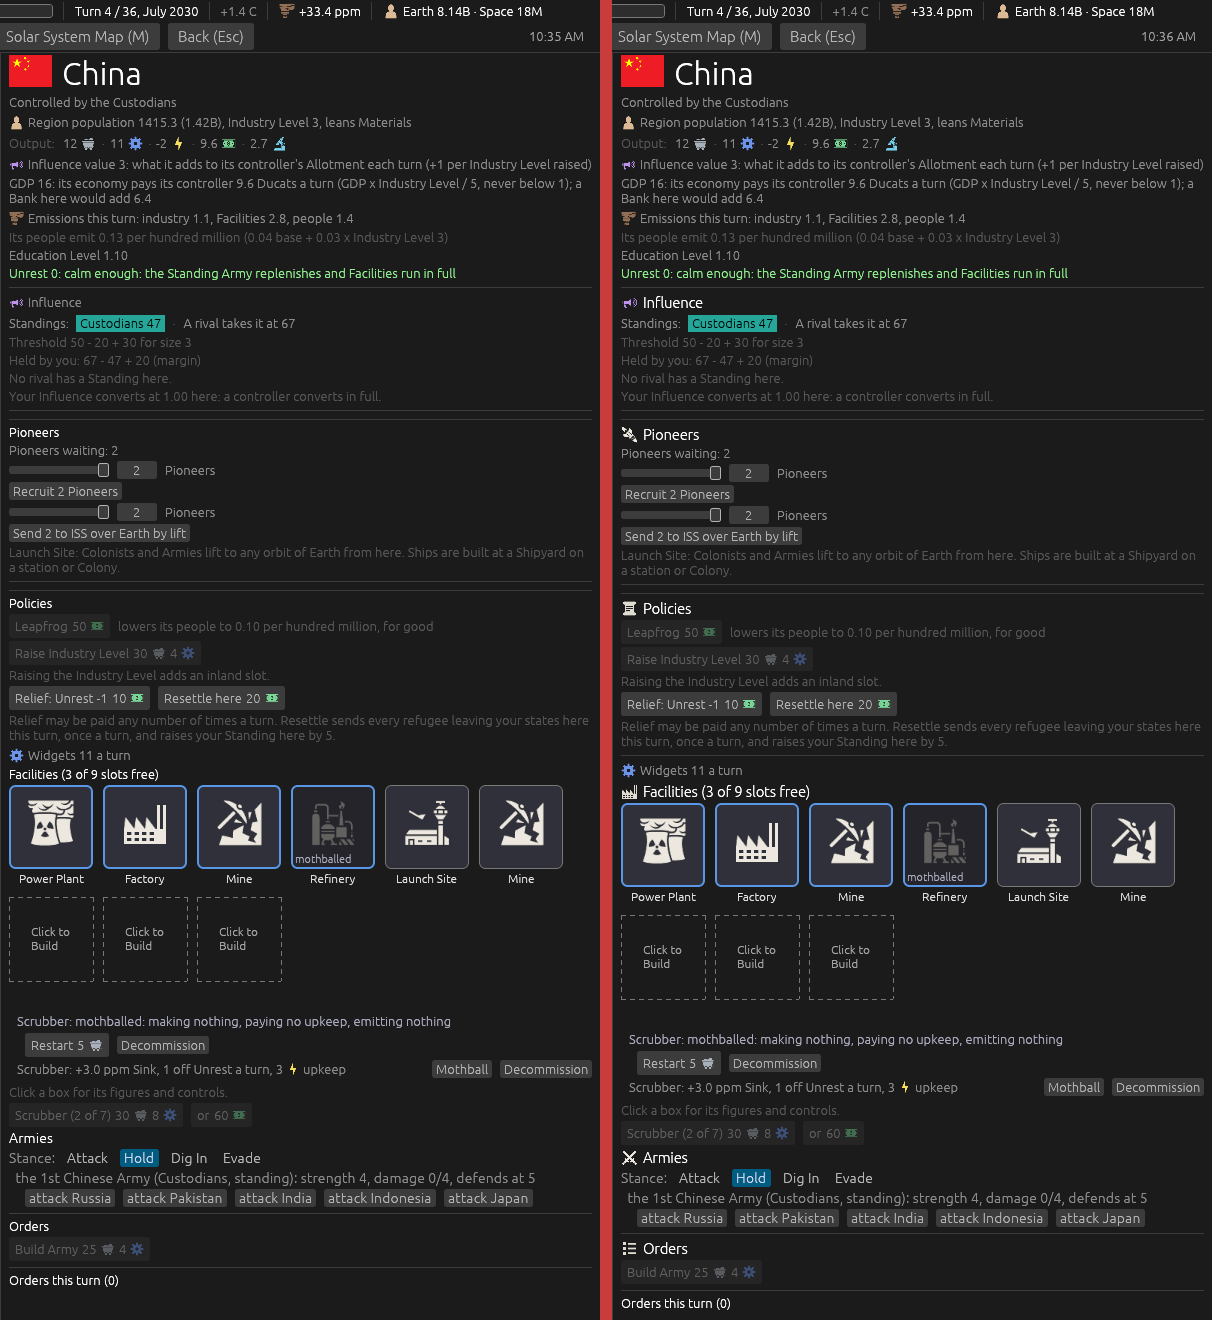
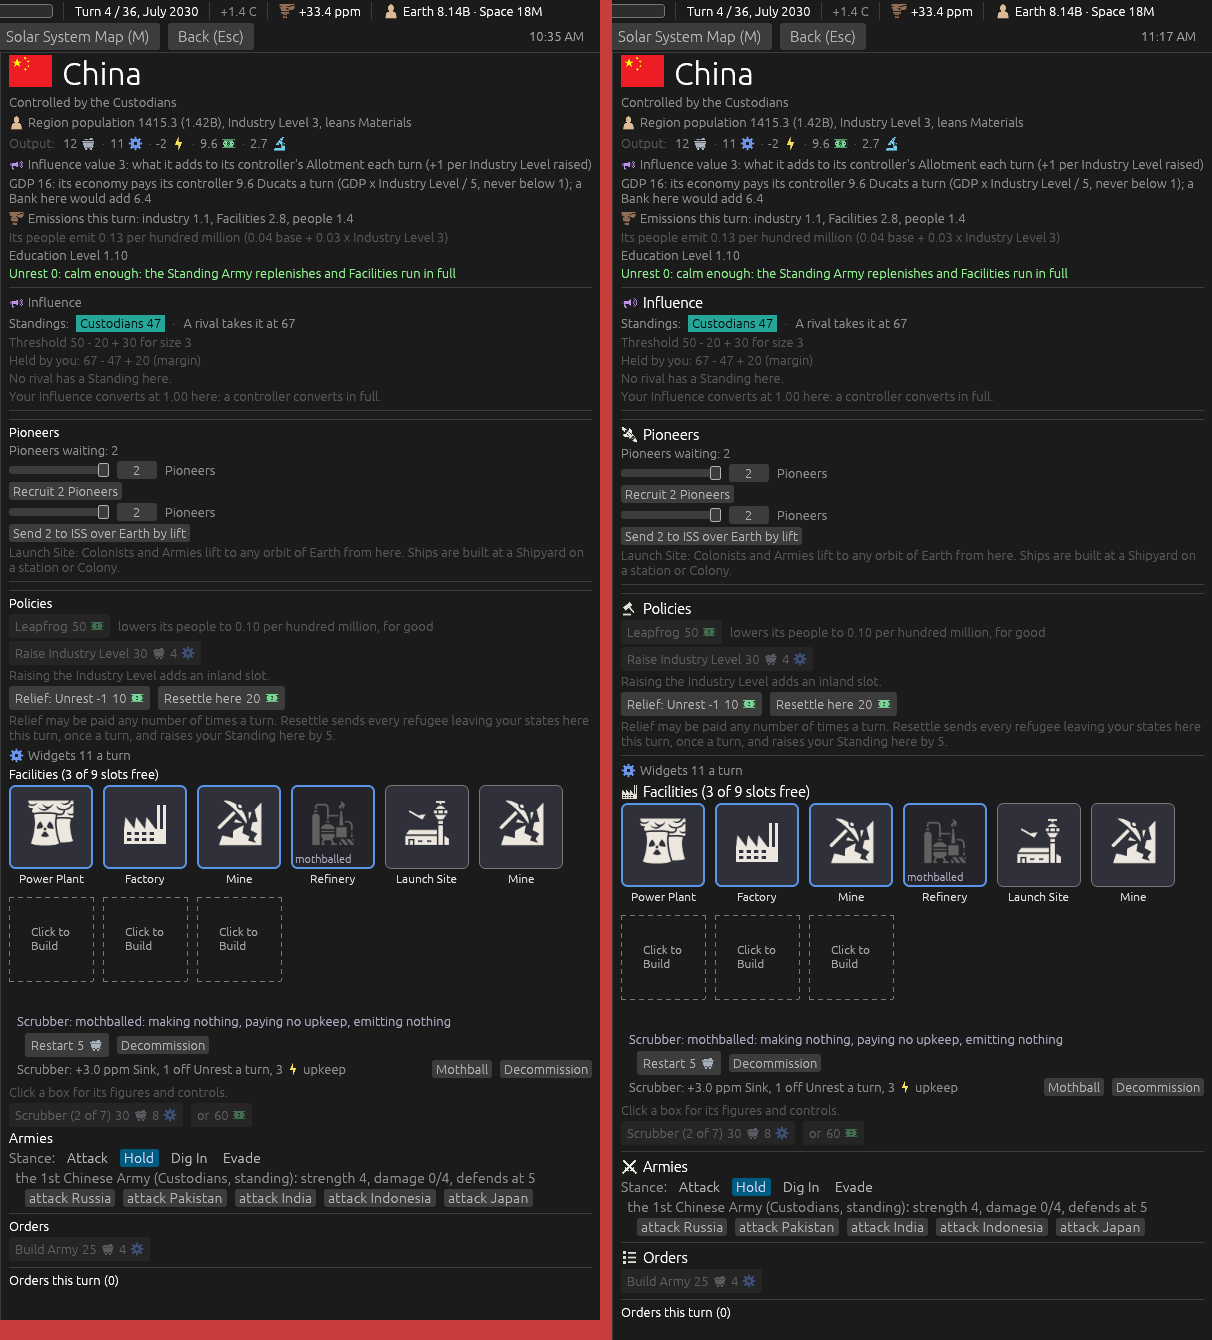
The Policies glyph redrawn as a gavel, and a rule above the Armies block (#474)
At the designer's word after the first pictures: the scroll read badly at
heading size. Four candidates are filed in the dev diary.

diff --git a/src/ui.rs b/src/ui.rs
@@ -7426,6 +7426,8 @@ This turn {:+.2}%: {:+.1} million.", c.population_growth * 100.0, c.population_l
     // is gone. The whole block is a tenth larger, at `ARMY_LIST_SCALE`.
     // Ticket #430 (version 0.09.5): the Armies the player does not see are counted, not listed.
     let (armies, unseen): (Vec<&Army>, Vec<&Army>) = game.armies.iter().filter(|a| a.at == ArmyAt::Place(Place::State(sid))).partition(|a| !hidden_army(game, a));
+    // Ticket #474 (version 0.09.8): a rule above the Armies, at the designer's word.
+    ui.separator();
     ui.scope(|ui| {
         for font in ui.style_mut().text_styles.values_mut() {
             font.size *= ARMY_LIST_SCALE;
@@ -8035,6 +8037,8 @@ fn colony_panel(ui: &mut Ui, session: &Session, game: &Game, view: &mut ViewStat
     // Ticket #430 (version 0.09.5): the Armies the player does not see are counted, not listed.
     let (armies, unseen): (Vec<&Army>, Vec<&Army>) = game.armies.iter().filter(|a| a.at == ArmyAt::Place(Place::Colony(cid))).partition(|a| !hidden_army(game, a));
     if !armies.is_empty() || !unseen.is_empty() {
+        // Ticket #474 (version 0.09.8): a rule above the Armies, as on the Region card.
+        ui.separator();
         ui.scope(|ui| {
             for font in ui.style_mut().text_styles.values_mut() {
                 font.size *= ARMY_LIST_SCALE;

diff --git a/src/icons.rs b/src/icons.rs
@@ -229,7 +229,7 @@ pub fn faction_symbol(kind: dying_earth_engine::FactionKind) -> &'static str {
 /// the Colony Ship already wears Lorc's upright Rocket, and a second upright rocket at sixteen
 /// pixels is the same silhouette twice. The DIAGONAL is what tells the two apart across a roster.
 /// Ticket #474 (version 0.09.8): two heading glyphs for the cards, drawn by hand: **policies**, a
-/// scroll with its lines, and **orders**, a list of three ticked-off rows. Neither is a figure or
+/// gavel on its block, and **orders**, a list of three ticked-off rows. Neither is a figure or
 /// a kind, so both wear the neutral fill.
 pub const DRAWN: [&str; 9] = ["station", "facility_school", "battle", "module_battery", "widgets", "missile_carrier", "facility_stadium", "policies", "orders"];
 

diff --git a/docs/dev-diary/2026-10-04-version-0.09.8/README.md b/docs/dev-diary/2026-10-04-version-0.09.8/README.md
@@ -22,13 +22,20 @@ at `window:1280x1500` so the whole card shows.
   ![the Colony card, before and after](ticket-474/outpost-before-after.png)
 - **The Archivists' Colony card**, for The Archive's heading (`hab:1 player:archivists archive:1`):
   ![the Archivists' Colony card](ticket-474/archivists-colony-card.png)
-- **The headings at four times their size**, to judge the glyphs. Policies' scroll and Orders' list
+- **The headings at four times their size**, to judge the glyphs. Policies' gavel and Orders' list
   are new drawings (`assets/icons/policies.svg`, `orders.svg`):
   ![the headings magnified](ticket-474/headings-magnified.png)
 
+**After the designer looked:** *"policies looks a bit wonky at its size - replace, also we need a line
+before the armies section"*. Policies was a scroll first. Four replacements were drawn and previewed
+at 17 pixels (a preview drawn by script, not by the game's own renderer); the gavel went into the
+build. A rule now stands above the Armies block on both cards.
+
+![four candidates for the Policies glyph](ticket-474/policies-candidates/sheet.png)
+
 Seen in the pictures and left alone:
 
-- The Region card is 23 pixels taller for the larger headings.
+- The Region card is about 30 pixels taller for the larger headings and the new rule.
 - On a station with no Shipyard the Orders heading has nothing under it. It was so before; the
   larger heading makes it plainer.
 

diff --git a/docs/spec/version-0.09.8.md b/docs/spec/version-0.09.8.md
@@ -26,13 +26,14 @@ The authority is [ticket #474](https://github.com/whaleyjoshua2/Dying-Earth/issu
 - **The Armies heading takes the shared size.** Its list keeps the tenth it has had since 0.08.7.
 - **A rule is drawn below the Policies block**, so the Widgets line and its queue read with the
   Facilities they build.
+- **A rule is drawn above the Armies block** on both cards.
 - **The glyphs:**
 
   | Heading | Glyph |
   |---|---|
   | Influence | Influence |
   | Pioneers | the Colony Ship |
-  | Policies | a scroll, drawn for the game |
+  | Policies | a gavel on its block, drawn for the game |
   | Facilities | the Factory's |
   | Modules | the Habitat's |
   | Armies | the Battle mark |
